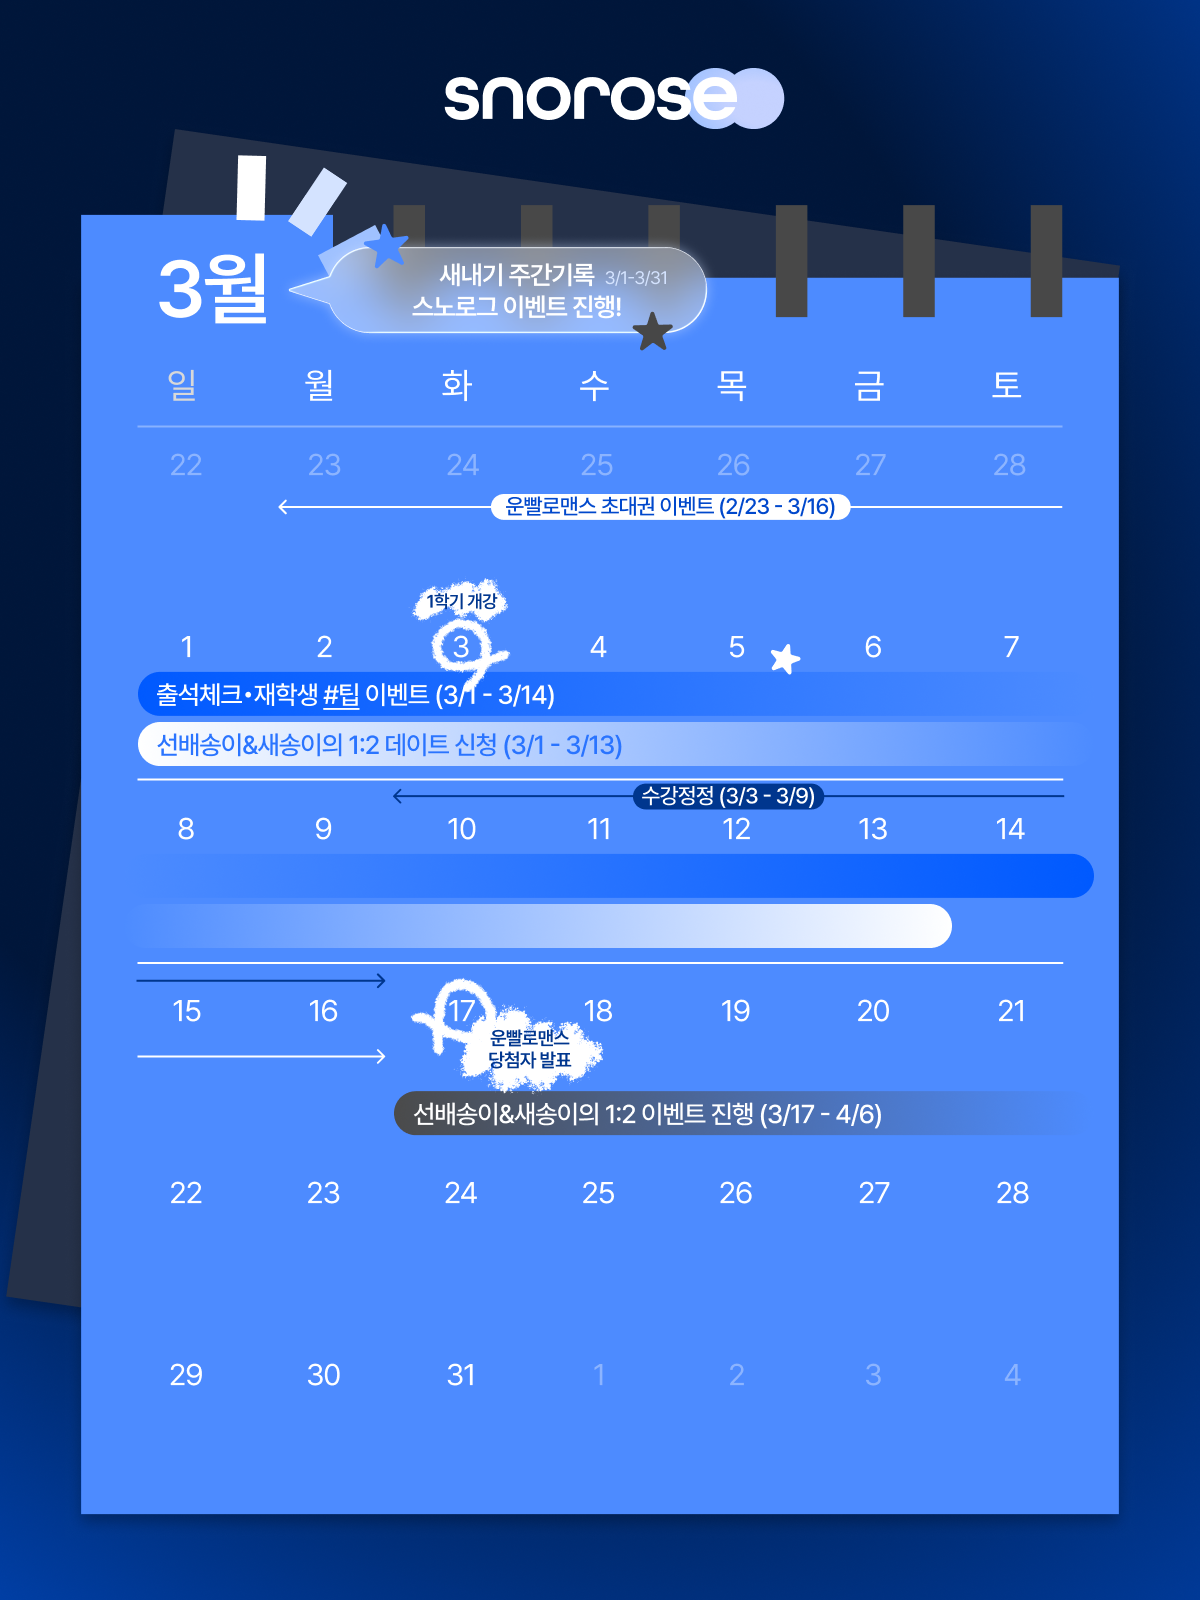
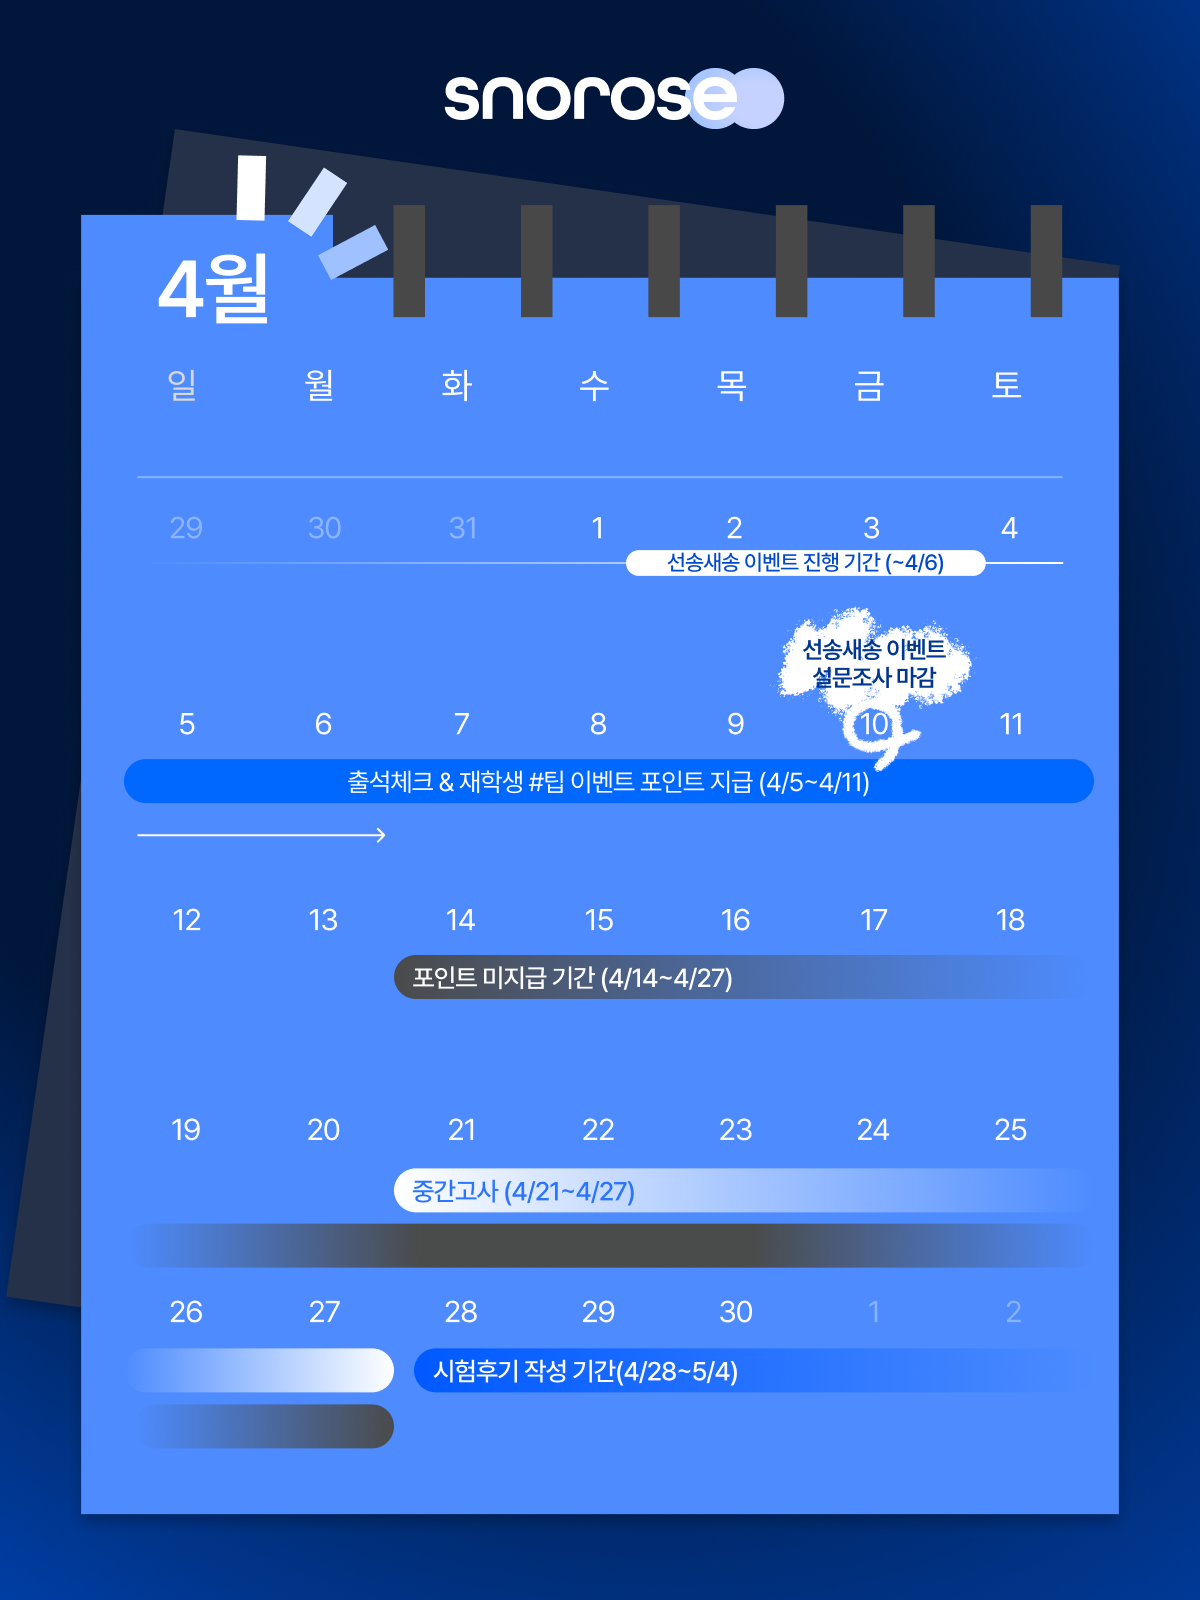
[FEAT] #1503 4월 팝업 업데이트 (#1504)

Pull request: [SNO-342] #1503 4월 팝업 업데이트
## 🔎 What is this PR?

Close #1503

## 🎯 변경 사항

- 4월 팝업 업데이트 (이벤트, 블로그글 게시, 4월 캘린더)

## 📸 스크린샷 (선택 사항)


| Before | After |
| :----: | :---: |
| 없음  |  <img width="300"  alt="image" src="https://github.com/user-attachments/assets/1d8b3314-0cf7-404a-adf9-19a2a38ec87b" /> |


## 🧐 리뷰어가 어떤 부분에 집중해야 할까요? (선택 사항)

diff --git a/src/feature/home/component/PopUp/PopUpContents.jsx b/src/feature/home/component/PopUp/PopUpContents.jsx
@@ -1,5 +1,6 @@
 import styles from './PopUpContents.module.css';
 import calendarImage from './calendar.png';
+import eventImage from './event.png';
 import { Link } from 'react-router-dom';
 
 /**
@@ -23,37 +24,39 @@ import { Link } from 'react-router-dom';
 /** @type {PopupContent[]} */
 const POPUP_CONTENTS = [
   {
-    title: '스노로즈 새내기 안내서',
-    description: null,
+    title: "[EVENT] 츄구미 X 스노로즈: 시험기간 '듀잇(Dew-it)' 한정 판매 🍇🍋",
+    description: '"시험기간 간식도 챙기고, 스노로즈에 기부까지 함께해요!"',
+    contentList: ['1세트 구매 시 자동 2000원 기부 + 숙명인 한정 특가'],
     link: [
       {
-        title: '스노로즈 새내기 안내서 링크 (노션)',
-        url: 'https://snorose.notion.site/1957ef0aa3bf80a68ce3fe67f7a7e230',
-        isExternal: true,
-      },
-    ],
-    startDate: '2026-02-28',
-    endDate: '2026-03-15',
-  },
-  {
-    title: '스노로즈 새내기&재학생 이벤트',
-    description:
-      '스노로즈에서 새학기를 맞아 새내기와 재학생을 위한 이벤트를 준비했습니다!\n지금 참여하고 포인트와 기프티콘까지 챙겨가세요!',
-    link: [
-      {
-        title: '이벤트 신청 링크 (스노로즈 공지)',
-        url: '/board/notice/post/1874011',
+        title: '이벤트 관련 링크 (스노로즈 공지)',
+        url: '/board/notice/post/1886676',
         isExternal: false,
       },
     ],
-    startDate: '2026-02-28',
-    endDate: '2026-03-15',
+    image: eventImage,
+    startDate: '2026-04-01',
+    endDate: '2026-04-10',
   },
   {
-    title: '2026년 3월 캘린더',
+    title: '[블로그] 스노로즈 수료식과 발대식 현장 포착 📸',
+    description:
+      '스노로즈의 수료식과 발대식 현장을 담은 블로그가 새롭게 업로드되었습니다.',
+    link: [
+      {
+        title: '블로그 링크 (노션)',
+        url: 'https://snorose.notion.site/3347ef0aa3bf809da325e02adaff3758',
+        isExternal: true,
+      },
+    ],
+    startDate: '2026-04-01',
+    endDate: '2026-04-10',
+  },
+  {
+    title: '[캘린더] 4월 스노로즈 일정',
     image: calendarImage,
-    startDate: '2026-02-28',
-    endDate: '2026-03-15',
+    startDate: '2026-04-01',
+    endDate: '2026-04-10',
   },
 ];
 